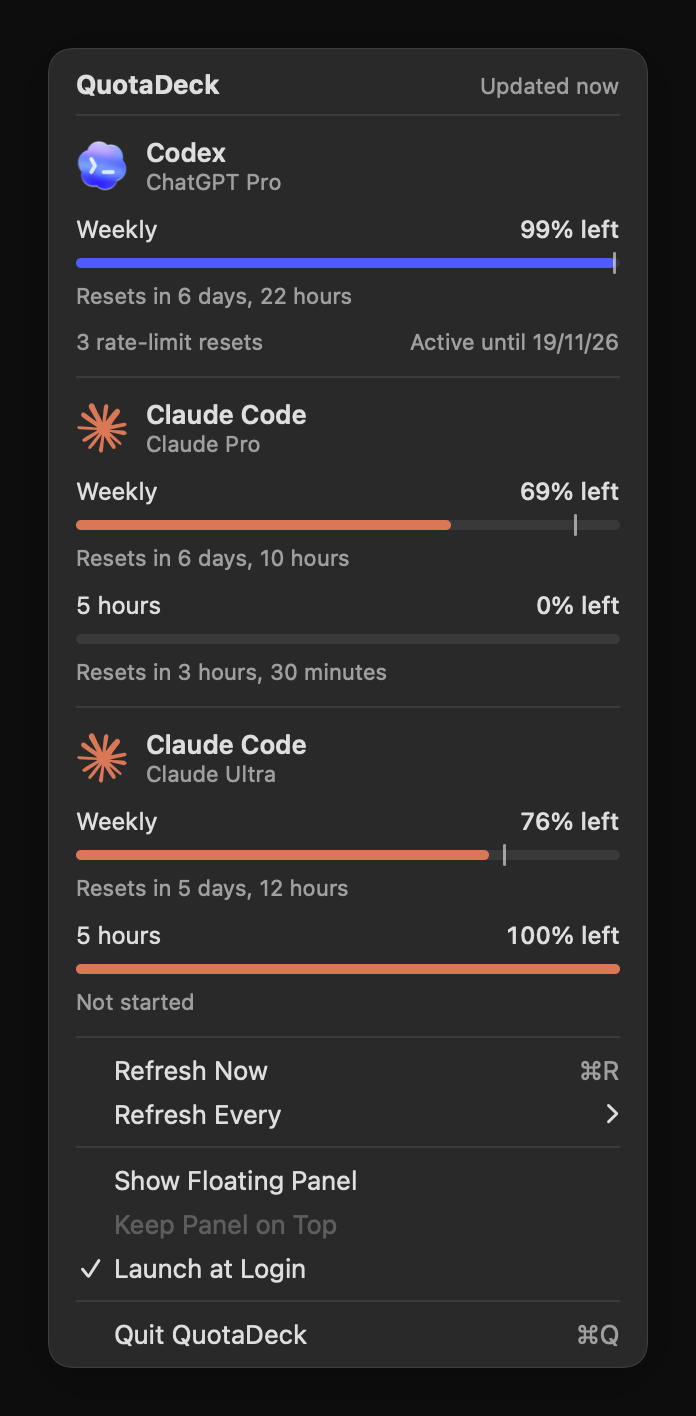
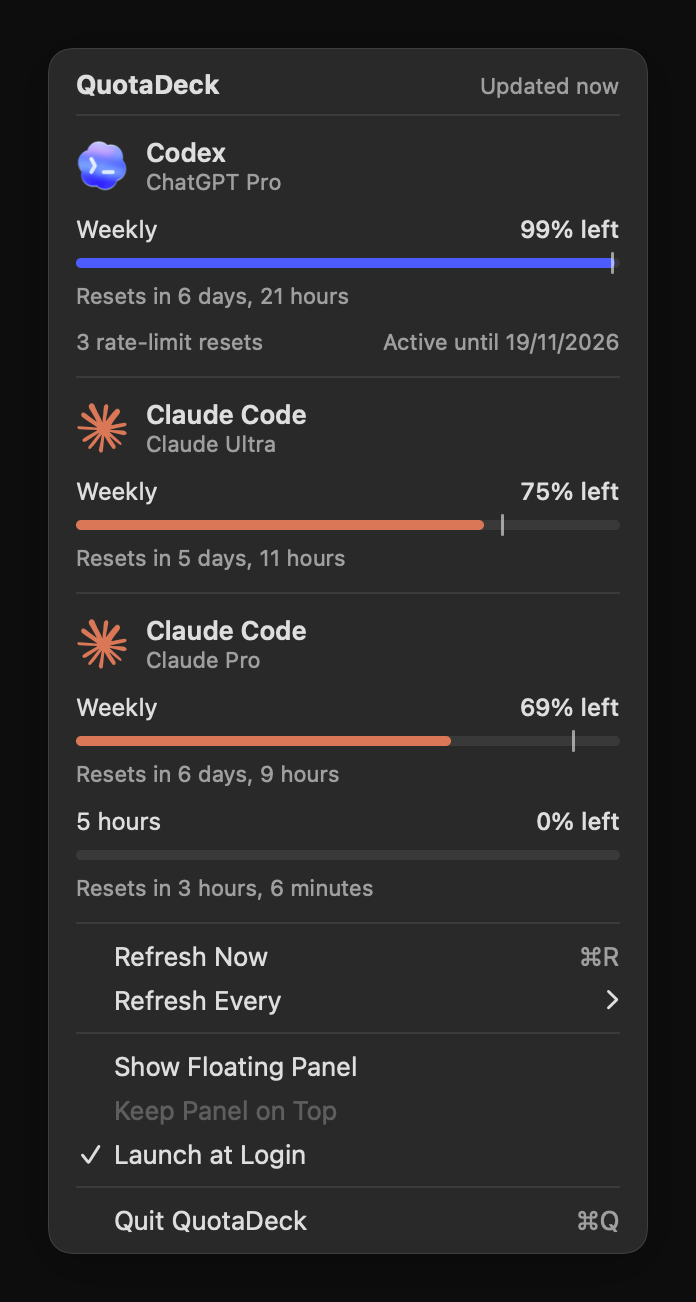
Hide the 5-hour window for Claude Ultra, which has no 5-hour limit
Refresh the README screenshots to match.

diff --git a/Sources/QuotaDeck/UsageStore.swift b/Sources/QuotaDeck/UsageStore.swift
@@ -83,6 +83,10 @@ final class UsageStore: ObservableObject {
                         // Profile lookup failed: try again in ~10 minutes.
                         planCheckedAt[ref.id] = Date().addingTimeInterval(-6 * 3_600 + 600)
                     }
+                    // Claude Ultra has no 5-hour limit, only the weekly one.
+                    if acc.provider == .claude, acc.plan?.localizedCaseInsensitiveContains("ultra") == true {
+                        acc.windows.removeAll { $0.kind == .fiveHour }
+                    }
                     acc.updatedAt = Date()
                     acc.error = nil
                     backoff[ref.id] = nil

diff --git a/README.md b/README.md
@@ -13,7 +13,7 @@ have left, for every account on your Mac.
 - **Menu bar icon** with a native menu: remaining quota and reset time for each account.
 - **Optional floating panel**, in light and dark mode.
 - Weekly and 5-hour windows, plus a **pace marker** that shows whether you are using quota faster
-  than a steady rate.
+  than a steady rate. Claude Ultra has no 5-hour limit, so only its weekly window is shown.
 - Shows each account's **plan** (e.g. *Claude Max 20x*, *ChatGPT Pro*).
 - Written in Swift with SwiftUI and AppKit. No dependencies and no CPU use while idle.
 
